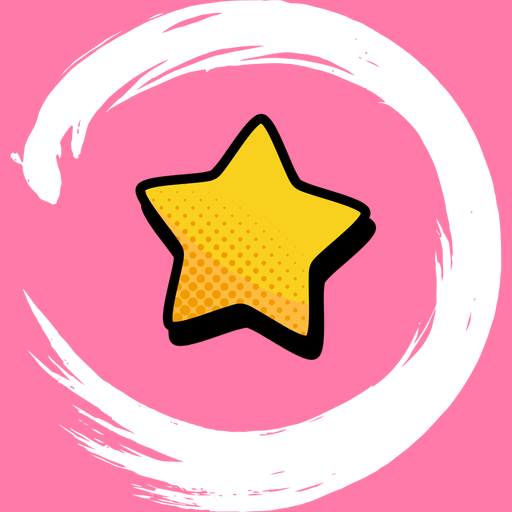
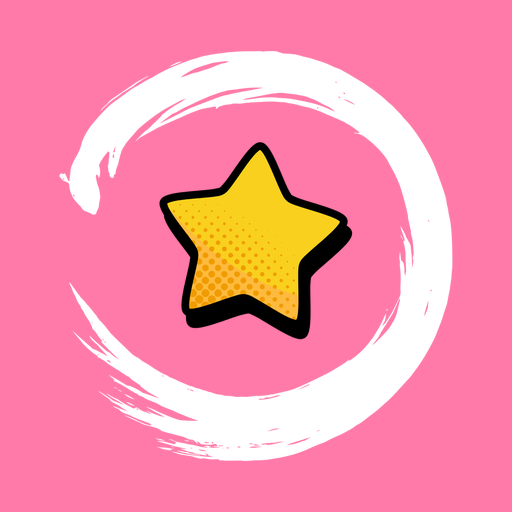
Atualiza ícone maskable do PWA

diff --git a/sw.js b/sw.js
@@ -1,4 +1,4 @@
-const CACHE_NAME = 'otaku-level-shell-v5';
+const CACHE_NAME = 'otaku-level-shell-v6';
 const APP_SHELL = [
   'index.html',
   'reset.html',
@@ -46,6 +46,7 @@ const APP_SHELL = [
   'assets/pwa-icon-192.png',
   'assets/pwa-icon-512.png',
   'assets/pwa-icon-maskable-512.png',
+  'assets/pwa-icon-maskable-512-v2.png',
 ];
 const root = new URL('./', self.registration.scope);
 const isSuccessfulSameOrigin = (response, requestUrl) =>
